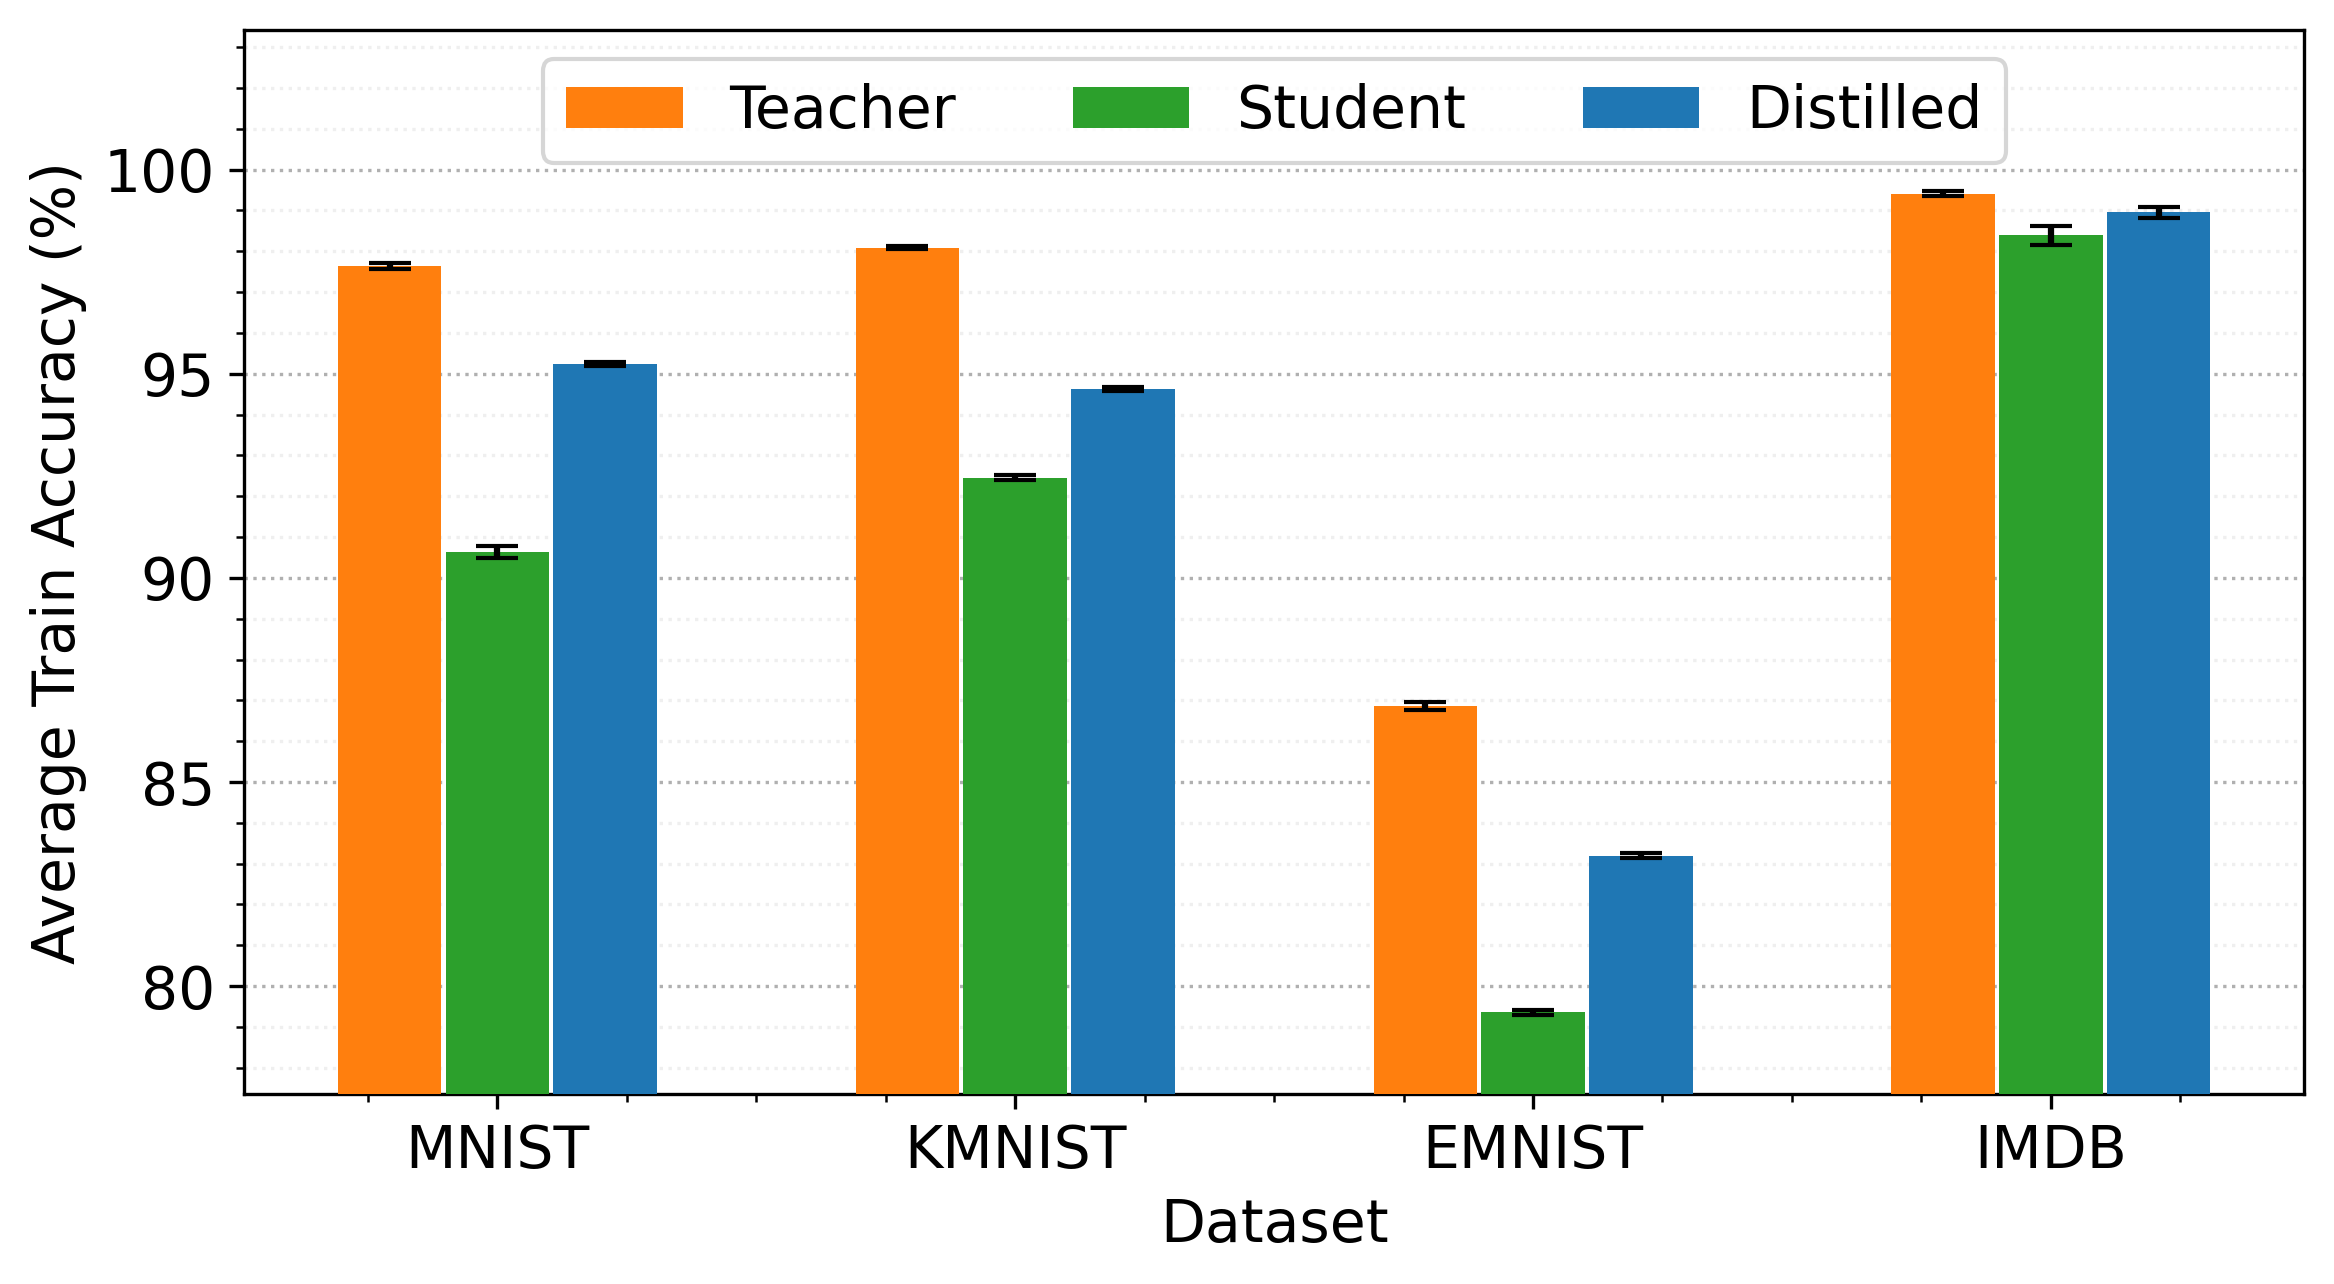
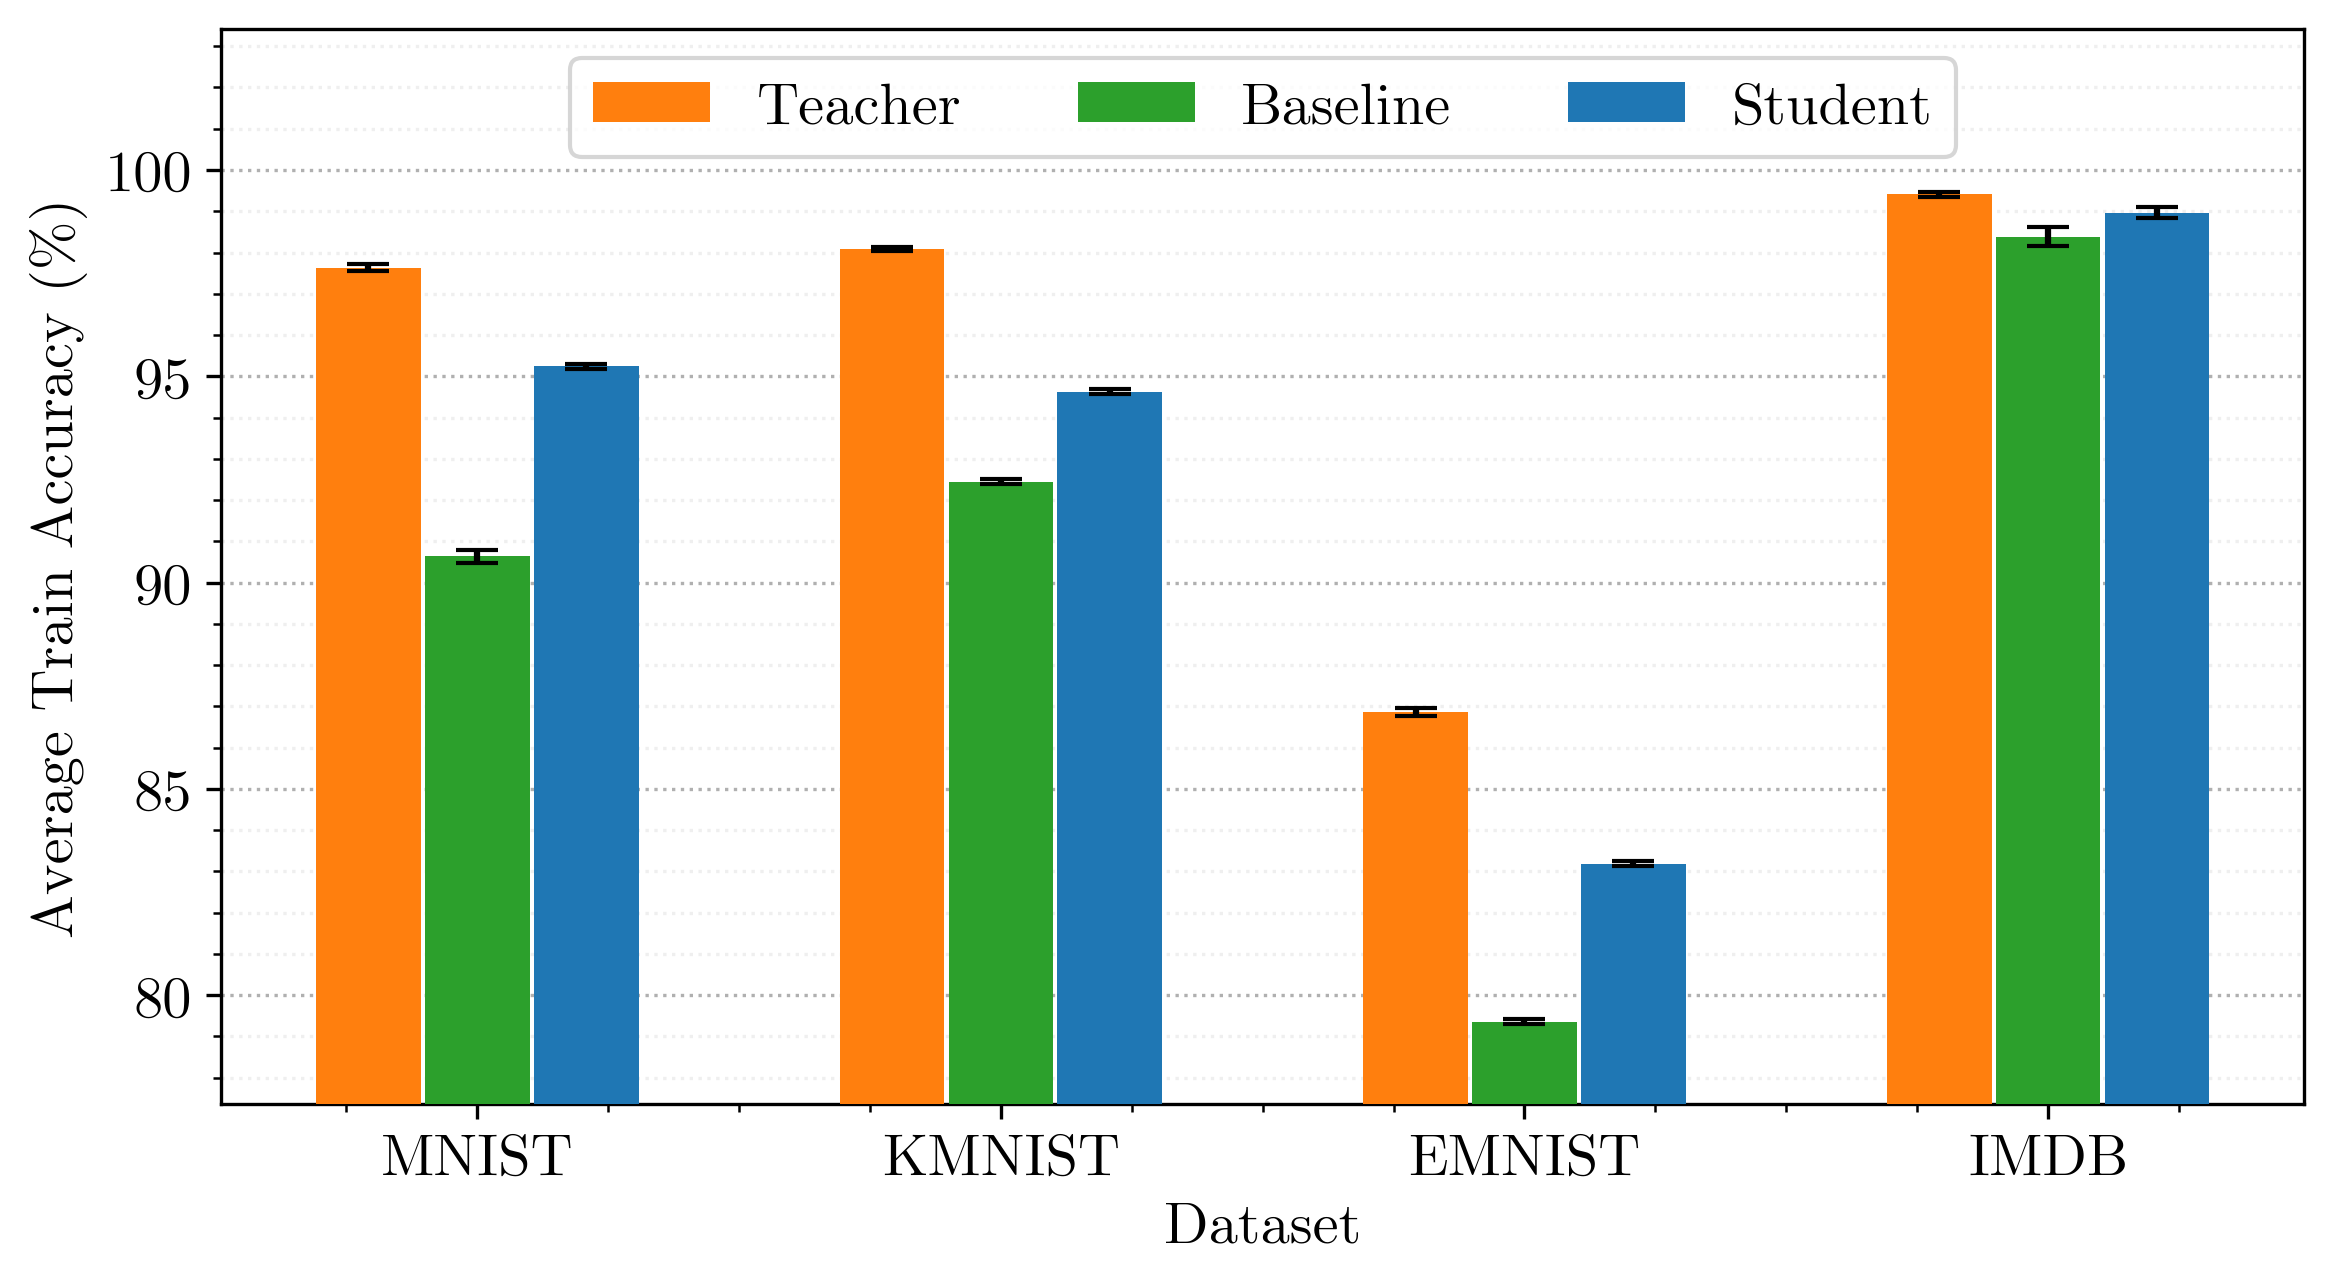
better graphs

diff --git a/src/postprocessing.py b/src/postprocessing.py
@@ -312,8 +312,8 @@ def make_paper_2_tables_aggregate(exps: list[tuple[str, str]]):
     dataset_size_table = pd.DataFrame(columns=["Dataset", "$|X_{train}|$", "$|X_{test}|$", "$|L|$", "$\\zeta$"], index=[])
 
     # combined train table with time
-    train_table = pd.DataFrame(columns=["Dataset", "$Acc'_T$", "$\\mathcal{T}'_T$", "$Acc'_S$", "$\\mathcal{T}'_S$", "$Acc'_D$", "$\\mathcal{T}'_D$"], index=[])
-    test_table = pd.DataFrame(columns=["Dataset", "$Acc_T$", "$\\mathcal{T}_T$", "$Acc_S$", "$\\mathcal{T}_S$", "$Acc_D$", "$\\mathcal{T}_D$"], index=[])
+    train_table = pd.DataFrame(columns=["Dataset", "$Acc'_T$", "$\\mathcal{T}'_T$", "$Acc'_B$", "$\\mathcal{T}'_B$", "$Acc'_S$", "$\\mathcal{T}'_S$"], index=[])
+    test_table = pd.DataFrame(columns=["Dataset", "$Acc_T$", "$\\mathcal{T}_T$", "$Acc_B$", "$\\mathcal{T}_B$", "$Acc_S$", "$\\mathcal{T}_S$"], index=[])
 
     for exp in exps:
         # load aggregated output
@@ -357,22 +357,22 @@ def make_paper_2_tables_aggregate(exps: list[tuple[str, str]]):
         new_row = {
             "Dataset": rowname,
             "$Acc'_T$": f'{exp_output["analysis"]["avg_acc_train_teacher"]:.2f} \\newline $\pm$ {exp_output["analysis"]["std_acc_train_teacher"]:.2f}',
-            "$Acc'_S$": f'{exp_output["analysis"]["avg_acc_train_student"]:.2f} \\newline $\pm$ {exp_output["analysis"]["std_acc_train_student"]:.2f}',
-            "$Acc'_D$": f'{exp_output["analysis"]["avg_acc_train_distilled"]:.2f} \\newline $\pm$ {exp_output["analysis"]["std_acc_train_distilled"]:.2f}',
+            "$Acc'_B$": f'{exp_output["analysis"]["avg_acc_train_student"]:.2f} \\newline $\pm$ {exp_output["analysis"]["std_acc_train_student"]:.2f}',
+            "$Acc'_S$": f'{exp_output["analysis"]["avg_acc_train_distilled"]:.2f} \\newline $\pm$ {exp_output["analysis"]["std_acc_train_distilled"]:.2f}',
             "$\\mathcal{T}'_T$": f'{exp_output["analysis"]["avg_time_train_teacher"]:.2f} \\newline $\pm$ {exp_output["analysis"]["std_time_train_teacher"]:.2f}',
-            "$\\mathcal{T}'_S$": f'{exp_output["analysis"]["avg_time_train_student"]:.2f} \\newline $\pm$ {exp_output["analysis"]["std_time_train_student"]:.2f}',
-            "$\\mathcal{T}'_D$": f'{exp_output["analysis"]["avg_time_train_distilled"]:.2f} \\newline $\pm$ {exp_output["analysis"]["std_time_train_distilled"]:.2f}'
+            "$\\mathcal{T}'_B$": f'{exp_output["analysis"]["avg_time_train_student"]:.2f} \\newline $\pm$ {exp_output["analysis"]["std_time_train_student"]:.2f}',
+            "$\\mathcal{T}'_S$": f'{exp_output["analysis"]["avg_time_train_distilled"]:.2f} \\newline $\pm$ {exp_output["analysis"]["std_time_train_distilled"]:.2f}'
         }
         train_table = train_table._append(new_row, ignore_index=True)
 
         new_row = {
             "Dataset": rowname,
             "$Acc_T$": f'{exp_output["analysis"]["avg_acc_test_teacher"]:.2f} \\newline $\pm$ {exp_output["analysis"]["std_acc_test_teacher"]:.2f}',
-            "$Acc_S$": f'{exp_output["analysis"]["avg_acc_test_student"]:.2f} \\newline $\pm$ {exp_output["analysis"]["std_acc_test_student"]:.2f}',
-            "$Acc_D$": f'{exp_output["analysis"]["avg_acc_test_distilled"]:.2f} \\newline $\pm$ {exp_output["analysis"]["std_acc_test_distilled"]:.2f}',
+            "$Acc_B$": f'{exp_output["analysis"]["avg_acc_test_student"]:.2f} \\newline $\pm$ {exp_output["analysis"]["std_acc_test_student"]:.2f}',
+            "$Acc_S$": f'{exp_output["analysis"]["avg_acc_test_distilled"]:.2f} \\newline $\pm$ {exp_output["analysis"]["std_acc_test_distilled"]:.2f}',
             "$\\mathcal{T}_T$": f'{exp_output["analysis"]["avg_time_test_teacher"]:.2f} \\newline $\pm$ {exp_output["analysis"]["std_time_test_teacher"]:.2f}',
-            "$\\mathcal{T}_S$": f'{exp_output["analysis"]["avg_time_test_student"]:.2f} \\newline $\pm$ {exp_output["analysis"]["std_time_test_student"]:.2f}',
-            "$\\mathcal{T}_D$": f'{exp_output["analysis"]["avg_time_test_distilled"]:.2f} \\newline $\pm$ {exp_output["analysis"]["std_time_test_distilled"]:.2f}'
+            "$\\mathcal{T}_B$": f'{exp_output["analysis"]["avg_time_test_student"]:.2f} \\newline $\pm$ {exp_output["analysis"]["std_time_test_student"]:.2f}',
+            "$\\mathcal{T}_S$": f'{exp_output["analysis"]["avg_time_test_distilled"]:.2f} \\newline $\pm$ {exp_output["analysis"]["std_time_test_distilled"]:.2f}'
         }
         test_table = test_table._append(new_row, ignore_index=True)
 
@@ -515,7 +515,7 @@ def make_ttest_table(exps: list[str]):
     col_fmt = "|l|" + "c|" * len(dataset_names)
     latex_table = _to_latex_hline(
         df, col_fmt,
-        caption="Paired t-test: Distilled vs.\\ Student Baseline (DKD)",
+        caption="Paired t-test: Student vs.\\ Baseline",
         label="tab:ttest-dkd"
     )
     latex_path = os.path.join(output_dir, "ttest_table.tex")
@@ -798,14 +798,15 @@ def make_combined_graphs_aggregate(exps: list[tuple[str, str]], output_dir: str)
             
             # Plot bars
 
+            display_names = {"teacher": "Teacher", "student": "Baseline", "distilled": "Student"}
             models = ["teacher", "student", "distilled"]
             for model in models:
                 means = [data[phase][model]["avg_"+metric] for data in experiment_data]
                 stds = [data[phase][model]["std_"+metric] for data in experiment_data]
                 pos = [pos[model] for pos in positions]
-                
-                bars = plt.bar(pos, means, bar_width, 
-                             label=model.capitalize(),
+
+                bars = plt.bar(pos, means, bar_width,
+                             label=display_names[model],
                              color=colors[model],
                              zorder=10)  # Set zorder to 10 to put bars above grid
                 

diff --git a/assets/paper_2/train_table.tex b/assets/paper_2/train_table.tex
@@ -3,7 +3,7 @@
 \label{tab:train-table-dkd}
 \begin{tabular}{|l|c|c|c|c|c|c|}
 \hline
-Dataset & $Acc'_T$ & $\mathcal{T}'_T$ & $Acc'_S$ & $\mathcal{T}'_S$ & $Acc'_D$ & $\mathcal{T}'_D$ \\
+Dataset & $Acc'_T$ & $\mathcal{T}'_T$ & $Acc'_B$ & $\mathcal{T}'_B$ & $Acc'_S$ & $\mathcal{T}'_S$ \\
 \hline
 MNIST & 97.63 \newline $\pm$ 0.08 & 0.70 \newline $\pm$ 0.02 & 90.63 \newline $\pm$ 0.16 & 0.26 \newline $\pm$ 0.00 & 95.24 \newline $\pm$ 0.06 & 0.24 \newline $\pm$ 0.00 \\\hline
 KMNIST & 98.09 \newline $\pm$ 0.04 & 1.66 \newline $\pm$ 0.04 & 92.45 \newline $\pm$ 0.06 & 0.33 \newline $\pm$ 0.01 & 94.63 \newline $\pm$ 0.05 & 0.35 \newline $\pm$ 0.01 \\\hline

diff --git a/assets/paper_2/test_table.tex b/assets/paper_2/test_table.tex
@@ -3,7 +3,7 @@
 \label{tab:test-table-dkd}
 \begin{tabular}{|l|c|c|c|c|c|c|}
 \hline
-Dataset & $Acc_T$ & $\mathcal{T}_T$ & $Acc_S$ & $\mathcal{T}_S$ & $Acc_D$ & $\mathcal{T}_D$ \\
+Dataset & $Acc_T$ & $\mathcal{T}_T$ & $Acc_B$ & $\mathcal{T}_B$ & $Acc_S$ & $\mathcal{T}_S$ \\
 \hline
 MNIST & 95.19 \newline $\pm$ 0.08 & 0.38 \newline $\pm$ 0.02 & 90.37 \newline $\pm$ 0.16 & 0.06 \newline $\pm$ 0.00 & 93.95 \newline $\pm$ 0.05 & 0.06 \newline $\pm$ 0.00 \\\hline
 KMNIST & 85.41 \newline $\pm$ 0.10 & 0.95 \newline $\pm$ 0.03 & 80.11 \newline $\pm$ 0.09 & 0.10 \newline $\pm$ 0.01 & 82.47 \newline $\pm$ 0.09 & 0.10 \newline $\pm$ 0.01 \\\hline

diff --git a/assets/paper_2/ttest_table.tex b/assets/paper_2/ttest_table.tex
@@ -1,5 +1,5 @@
 \begin{table*}
-\caption{Paired t-test: Distilled vs.\ Student Baseline (DKD)}
+\caption{Paired t-test: Student vs.\ Baseline}
 \label{tab:ttest-dkd}
 \begin{tabular}{|l|c|c|c|c|}
 \hline
